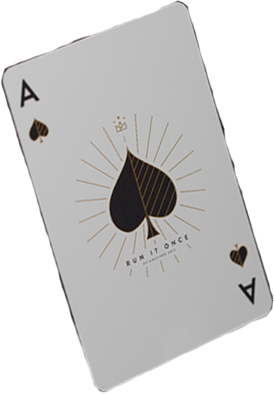
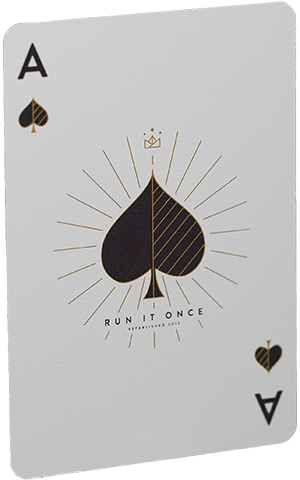
Adds new cards, updates responsive

diff --git a/app/screens/App/screens/Work/screens/RunItOnce/components/RunItOnce.js b/app/screens/App/screens/Work/screens/RunItOnce/components/RunItOnce.js
@@ -172,9 +172,9 @@ class RunItOnce extends Component {
     (context >= cardsHeight / 3) ? this.elementThree.classList.add("active") : this.elementThree.classList.remove("active");
 
     if (context >= 0 && cardsBottom >= 0) {
-      transformRotate(cardsArray[0], this.position(0, -25, relativeY, 0));
-      transformRotate(cardsArray[1], this.position(0,  25, relativeY, 0));
-      transformRotate(cardsArray[2], this.position(0, -25, relativeY, 0));
+      transformRotate(cardsArray[0], this.position(15,  -15, relativeY, 0));
+      transformRotate(cardsArray[1], this.position(-15,  15, relativeY, 0));
+      transformRotate(cardsArray[2], this.position(15,  -15, relativeY, 0));
     }
     this.tickingThree = false;
   }
@@ -187,7 +187,8 @@ class RunItOnce extends Component {
         cardboxNodes        = document.querySelectorAll(".cardbox-ending__item"),
         cardboxArray        = [...cardboxNodes],
         viewportHeightPlus  = viewportHeight * 1.05,
-        context             = (cardboxTop - (viewportHeight * .75) ) * -1,
+        context             = (cardboxTop - (viewportHeight * .6) ) * -1,
+        contextView         = (cardboxTop - (viewportHeight) ) * -1,
         contextPlus         = context - (cardboxHeight * .6),
         relativeY           = (context / (cardboxHeight)),
         relativeYPlus       = (contextPlus / (cardboxHeight)),
@@ -198,24 +199,25 @@ class RunItOnce extends Component {
         movement2             = cardboxHeight * (-.2),
         movement3             = cardboxHeight * (-.1),
         movement4             = cardboxHeight * .01,
-        movement5             = cardboxHeight * .165;
+        movement5             = cardboxHeight * .165,
+        lidSpeed              = windowWidth >= 1440 ? 3 : 4;
 
-    if (windowWidth <= 640) {
-      values = [ [-10, 10], [-140, 240], [-80, 180], [-30, 100], [60, -60] ]
-      showButtonValue = 75;
-    } else {
-      showButtonValue = 150;
-      values = [ [-20, 20], [-220, 280], [-120, 220], [-10, 140], [120, -120] ];
-    }
+    // if (windowWidth <= 640) {
+    //   values = [ [-10, 10], [-140, 240], [-80, 180], [-30, 100], [60, -60] ]
+    //   showButtonValue = 75;
+    // } else {
+    //   showButtonValue = 150;
+    //   values = [ [-20, 20], [-220, 280], [-120, 220], [-10, 140], [120, -120] ];
+    // }
 
-    if (context >= 0 && cardboxBottom >= 0) {
-      transformThreeD(cardboxArray[0], -50, "%",  this.position((movement1 * -1), movement1, relativeYPlus * 2.75, 0), "px", 0, "px");
-      transformThreeD(cardboxArray[1], -50, "%",  this.position((movement1 * -1), movement1, relativeYPlus * 2.75, 0), "px", 0, "px");
+    if (contextView >= 0) {
+      transformThreeD(cardboxArray[0], -50, "%",  this.position((movement1 * -1), movement1, relativeYPlus * lidSpeed, 0), "px", 0, "px");
+      // transformThreeD(cardboxArray[1], -50, "%",  this.position((movement1 * -1), movement1, relativeYPlus * 2.75, 0), "px", 0, "px");
 
-      transformThreeD(cardboxArray[2], -50, "%",  this.position(movement2,       (movement2 * -1), relativeY * 1.5,     0), "px", 0, "px");
-      transformThreeD(cardboxArray[3], -50, "%",  this.position(movement3,       (movement3 * -1), relativeY * 1.5,     0), "px", 0, "px");
-      transformThreeD(cardboxArray[4], -50, "%",  this.position((movement4 * -1), movement4,       relativeY * 1.5,     0), "px", 0, "px");
-      transformThreeD(cardboxArray[5], -50, "%",  this.position(movement5,       (movement5 * -1), relativeY * 1.5,   0), "px", 0, "px");
+      transformThreeD(cardboxArray[1], -50, "%",  this.position(movement2,       (movement2 * -1), relativeY * 1.5,     0), "px", 0, "px");
+      transformThreeD(cardboxArray[2], -50, "%",  this.position(movement3,       (movement3 * -1), relativeY * 1.5,     0), "px", 0, "px");
+      transformThreeD(cardboxArray[3], -50, "%",  this.position((movement4 * -1), movement4,       relativeY * 1.5,     0), "px", 0, "px");
+      transformThreeD(cardboxArray[4], -50, "%",  this.position(movement5,       (movement5 * -1), relativeY * 1.5,   0), "px", 0, "px");
     }
 
     (context >= showButtonValue) ? buyButton.classList.add("active") : buyButton.classList.remove("active");
@@ -371,7 +373,7 @@ class RunItOnce extends Component {
             <a ref="buy" href="#" className="button buy-button">buy em now</a>
             <div id="cardBox" className="cardbox" ref="cardbox">
               <img src={img.cardbox.lid}     className="cardbox-ending__item cardbox-ending__item--lid"   />
-              <img src={img.cardbox.lidBack} className="cardbox-ending__item cardbox-ending__item--lidback" />
+              {/*<img src={img.cardbox.lidBack} className="cardbox-ending__item cardbox-ending__item--lidback" />*/}
               <img src={img.cardbox.card}    className="cardbox-ending__item cardbox-ending__item--card"  />
               <img src={img.cardbox.card}    className="cardbox-ending__item cardbox-ending__item--card"  />
               <img src={img.cardbox.card}    className="cardbox-ending__item cardbox-ending__item--card"  />

diff --git a/app/stylesheets/screens/Work/screens/RunItOnce/_run-it-once.scss b/app/stylesheets/screens/Work/screens/RunItOnce/_run-it-once.scss
@@ -11,14 +11,23 @@ $rio-xs: 760px;
 	color: color(white);
 	min-height: 520px;
 	text-align: center;
-	@media screen and (min-height: 640px) {
+	@media screen and (min-height: 640px) and (min-width: 640px) {
+		height: 60vh;
+	}
+	@media screen and (min-height: 640px) and (min-width: 768px) {
+		height: 75vh;
+	}
+	@media screen and (min-height: 640px) and (min-width: 1024px) {
 		height: 90vh;
 	}
 	&--final {
 		// height: 400px;
 		// .cardbox { bottom: -20%; }
-		min-height: 420px;
-		@media screen and (min-height: 640px) {
+		min-height: 520px;
+		@media screen and (min-height: 640px) and (min-width: 640px) {
+			height: 50vh;
+		}
+		@media screen and (min-height: 640px) and (min-width: 768px) {
 			height: 75vh;
 		}
 	}
@@ -73,9 +82,9 @@ $rio-xs: 760px;
 	max-width: 235px;
 	// 475
 	transform: translate3d(-50%, 0px, 0);
-	@media screen and (min-height: 640px) {
-		bottom: -10%;
-	}
+	// @media screen and (min-height: 640px) {
+	// 	bottom: -15%;
+	// }
 	@media screen and (min-height: 640px) and (min-width: 640px) {
 		max-width: 300px;
 		bottom: -20%;
@@ -89,7 +98,7 @@ $rio-xs: 760px;
 		bottom: -30%;
 	}
 	@media screen and (min-height: 1024px) and (min-width: 1024px) {
-		bottom: -25%;
+		bottom: -30%;
 	}
 	&__item, &-ending__item {
 		position: absolute;
@@ -298,24 +307,27 @@ $rio-xs: 760px;
 	&-cards {
 		position: relative;
 		padding-top: 100px;
-		max-width: 300px;
+		max-width: 250px;
 		margin-left: auto;
 		margin-right: auto;
 		@include respond-to(sm) {
 			padding-top: 0;
 			position: absolute;
-			right: 0;
+			right: 5%;
 			top: 50%;
 			transform: translate3d(0, -50%, 0);
-			max-width: 285px;
+			max-width: 200px;
 		}
 		@include respond-to(md) {
-			max-width: 335px;
+			max-width: 200px;
+		}
+		@include respond-to(lg) {
+			right: 0;
 		}
 		&__item {
 			position: relative;
 			display: block;
-			margin: 0 auto -50px;
+			margin: 0 auto 0;
 
 			&:nth-child(1){ z-index: 3; }
 			&:nth-child(2){ z-index: 2; }
